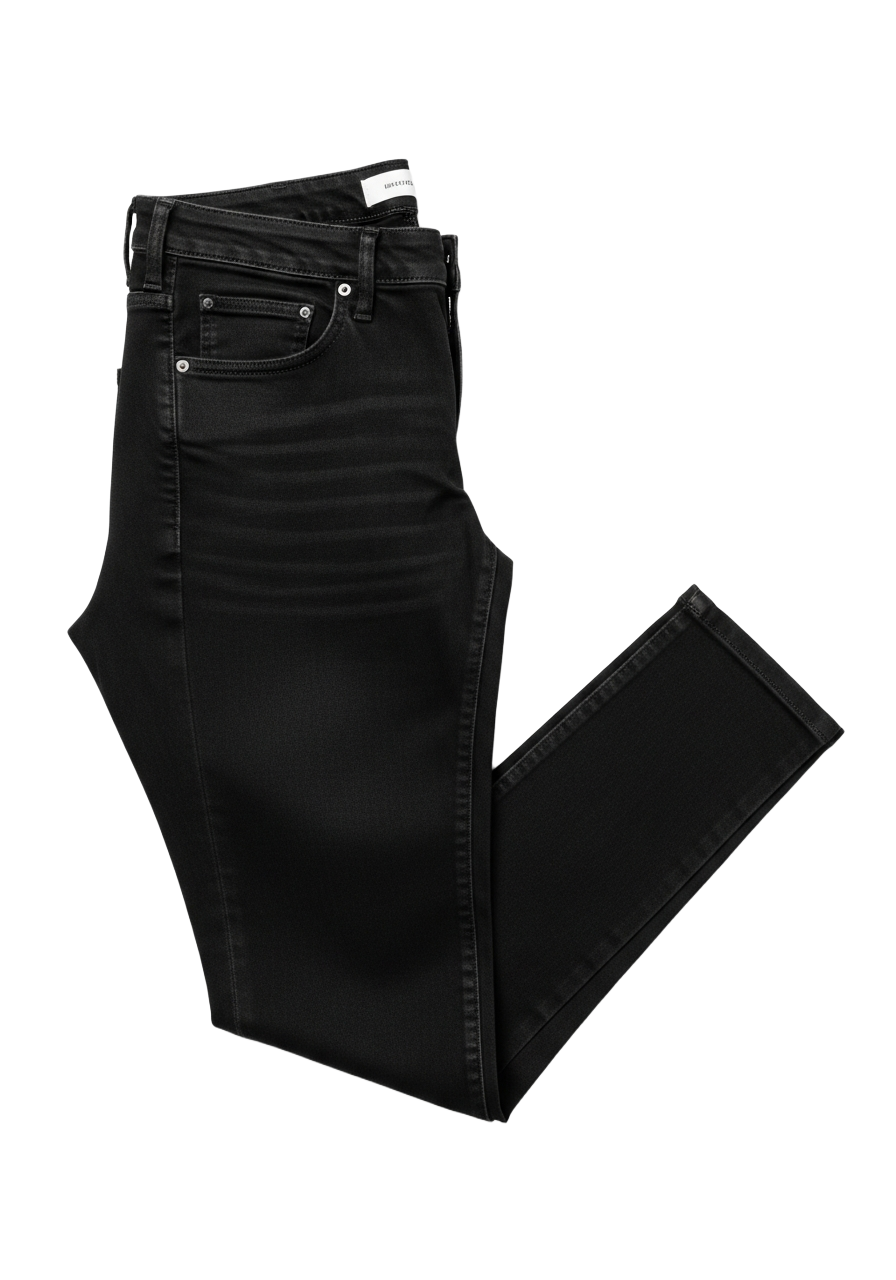
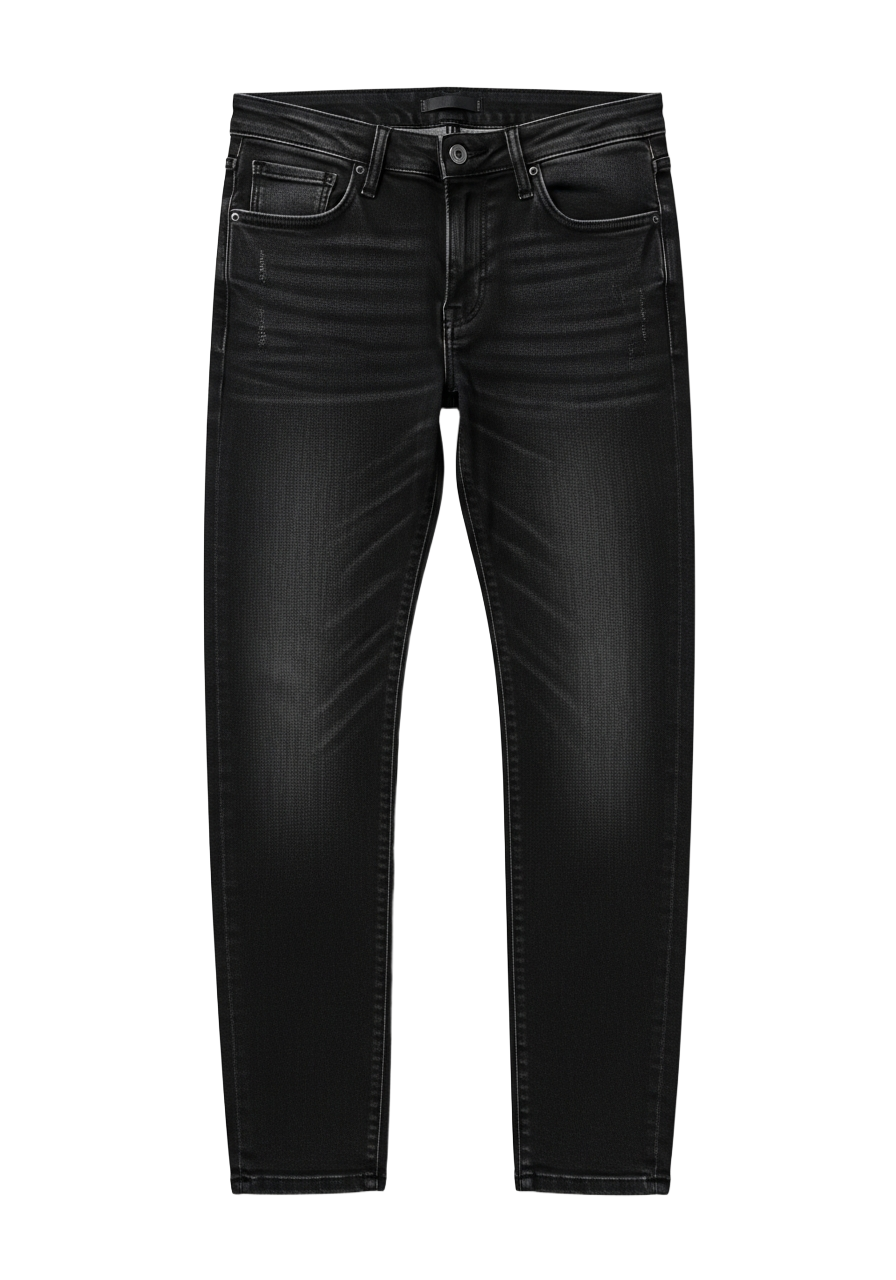
Improve virtual try-on with better garment placement and image updates
Update garment images for a more realistic virtual try-on experience. Enhance the try-on component to utilize pose detection for accurate placement and sizing of bottoms, including support for transparent background images. Refactor `composite` function to dynamically calculate garment dimensions and orientation based on pose data.

Replit-Commit-Author: Agent
Replit-Commit-Session-Id: d5950797-a213-41e1-87ad-d003a9040847
Replit-Commit-Checkpoint-Type: full_checkpoint
Replit-Commit-Event-Id: c1d24b71-f48e-4bf1-af27-c4b37a88ece5
Replit-Commit-Screenshot-Url: https://storage.googleapis.com/screenshot-production-us-central1/519d6d2b-571b-4844-802d-832a0f33411c/d5950797-a213-41e1-87ad-d003a9040847/h2JPiqw
Replit-Helium-Checkpoint-Created: true

diff --git a/client/src/pages/TryOn.tsx b/client/src/pages/TryOn.tsx
@@ -293,29 +293,55 @@ async function composite(
       ctx.restore();
     } catch {}
   } else {
-    if (poseRegions?.detected && poseRegions.hipMidY != null) {
+    if (poseRegions?.detected && poseRegions.hipL && poseRegions.hipR && poseRegions.hipMidY != null) {
+      const hipMidX = poseRegions.bodyMidX ?? (poseRegions.hipL.x + poseRegions.hipR.x) / 2;
+      const hipW = (poseRegions.hipSpanPx ?? pw * 0.3) * 1.4;
       garY = poseRegions.hipMidY;
-    } else {
-      garY = ph * 0.5;
-    }
 
-    garW = pw * 0.5;
-    garH = ph - garY - ph * 0.02;
-    garX = (pw - garW) / 2;
+      let legBottom: number;
+      if (poseRegions.ankleL && poseRegions.ankleR) {
+        legBottom = Math.max(poseRegions.ankleL.y, poseRegions.ankleR.y) + ph * 0.03;
+      } else if (poseRegions.kneeL && poseRegions.kneeR) {
+        const kneeAvgY = (poseRegions.kneeL.y + poseRegions.kneeR.y) / 2;
+        legBottom = kneeAvgY + (kneeAvgY - garY) * 1.1;
+      } else {
+        legBottom = ph * 0.97;
+      }
+
+      garW = hipW;
+      garH = legBottom - garY;
+      garX = hipMidX - garW / 2;
+
+      const hLeft = poseRegions.hipL.x <= poseRegions.hipR.x ? poseRegions.hipL : poseRegions.hipR;
+      const hRight = poseRegions.hipL.x <= poseRegions.hipR.x ? poseRegions.hipR : poseRegions.hipL;
+      tiltAngle = Math.max(-MAX_TILT, Math.min(MAX_TILT, Math.atan2(hRight.y - hLeft.y, hRight.x - hLeft.x)));
+    } else {
+      garW = pw * 0.5;
+      garY = ph * 0.5;
+      garH = ph * 0.47;
+      garX = (pw - garW) / 2;
+    }
 
     if (garY < ph * 0.45) {
+      garH -= (ph * 0.45 - garY);
       garY = ph * 0.45;
-      garH = ph - garY - ph * 0.02;
     }
+    if (garH < ph * 0.15) garH = ph * 0.15;
+    if (garY + garH > ph * 0.98) garH = ph * 0.98 - garY;
 
     console.log("[composite] BOTTOM placed at y:", Math.round(garY), "to", Math.round(garY + garH), "(lower body, starts at", Math.round(garY / ph * 100) + "%)");
 
+    const cx = garX + garW / 2;
+    const cy = garY + garH / 2;
+
     ctx.save();
+    ctx.translate(cx, cy);
+    ctx.rotate(tiltAngle);
     ctx.shadowColor   = "rgba(0,0,0,0.15)";
     ctx.shadowBlur    = 10;
     ctx.shadowOffsetY = 3;
     ctx.globalAlpha   = 0.92;
-    ctx.drawImage(garmentCanvas, garX, garY, garW, garH);
+    ctx.drawImage(garmentCanvas, -garW / 2, -garH / 2, garW, garH);
     ctx.restore();
   }
 
